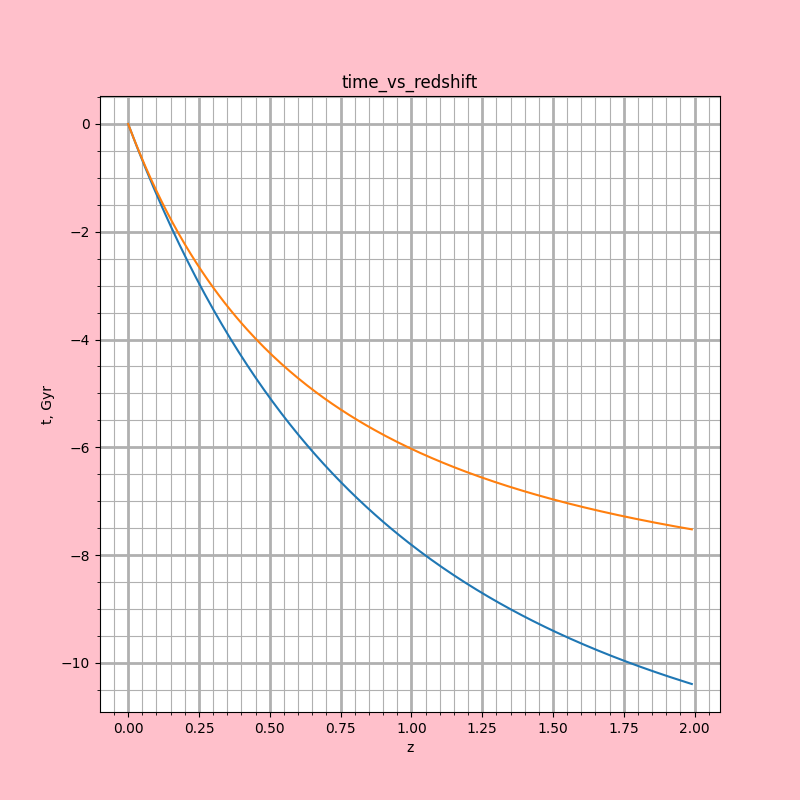
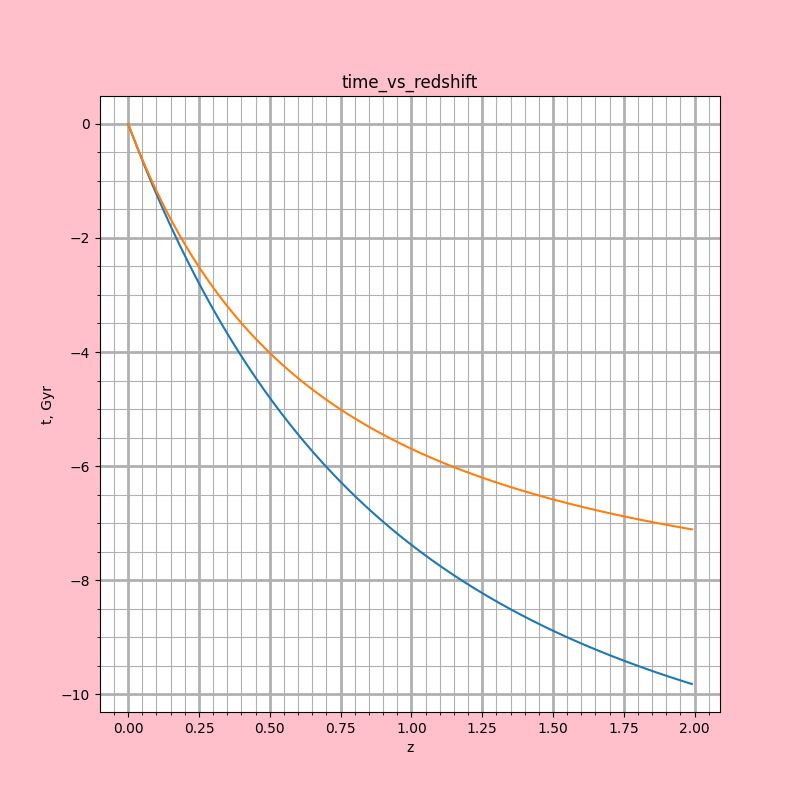
добавить анализ статистический, проработать легендирование графиков, добавить еще какие-нибудь функции

diff --git a/modeling_module/physical_problems/cosmology/solver.py b/modeling_module/physical_problems/cosmology/solver.py
@@ -134,8 +134,8 @@ class Cosmology_calculus():
                 dist0 = dist[i]
             DL[i] = (1+z)*dist[i]
             self.H_i.append(self.H_0*sol[N-1,1])
-            self.t_i.append(sol[N-1,0]*13.6*self.H_0/70)
-            self.DA.append(DL[i]/(1+z)**2)
+            self.t_i.append(sol[N-1,0]*13.6*70/self.H_0)
+            self.DA.append(DL[i]*(13.6/3.2616)*(70/self.H_0)/(1+z)**2)
             self.Omega_d.append(sol[N-1,2]/(3*sol[N-1,1]**2))
             self.Omega_m.append(sol[N-1,4]/(3*sol[N-1,1]**2))
             self.z_i.append(z)
@@ -193,7 +193,7 @@ class Visualization:
 
         if Task.plot_diagram_1 == True:
 
-            fig = plt.figure(figsize=(8,8), facecolor='pink', frameon=True)
+            fig = plt.figure(figsize=(12,8), facecolor='pink', frameon=True)
             ax = fig.add_subplot(111)
             for model in self.models:
                 ax.plot(model.z_i,model.mu_i)
@@ -302,7 +302,7 @@ class Visualization:
             ax4.minorticks_on()
             ax4.set_title('Angular_diameter_distance')
             ax4.set_xlabel('z')
-            ax4.set_ylabel('D_A, Mpc')
+            ax4.set_ylabel('D_A, Gpc')
             ax4.grid(which='major',linewidth = 2)
             ax4.grid(which='minor')
             fig4.savefig(path + 'results/DA(z)')
